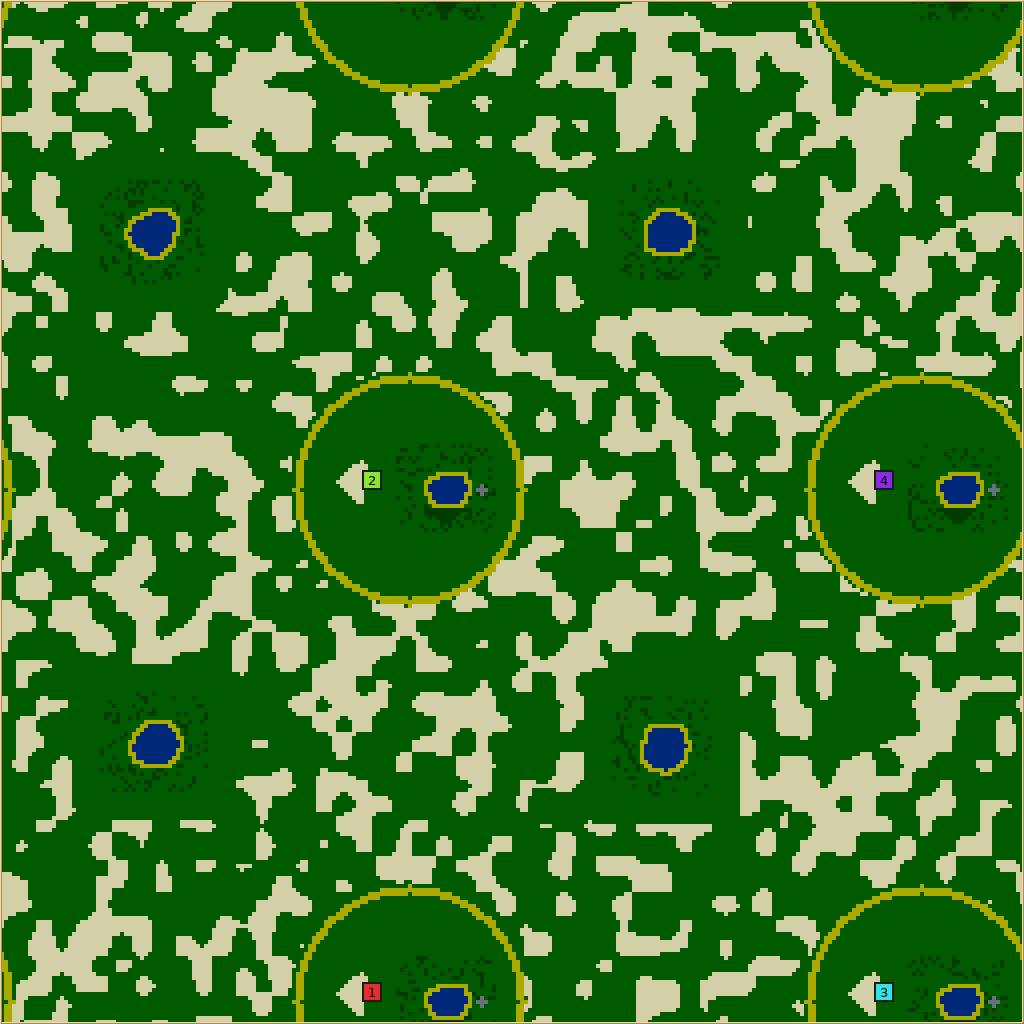
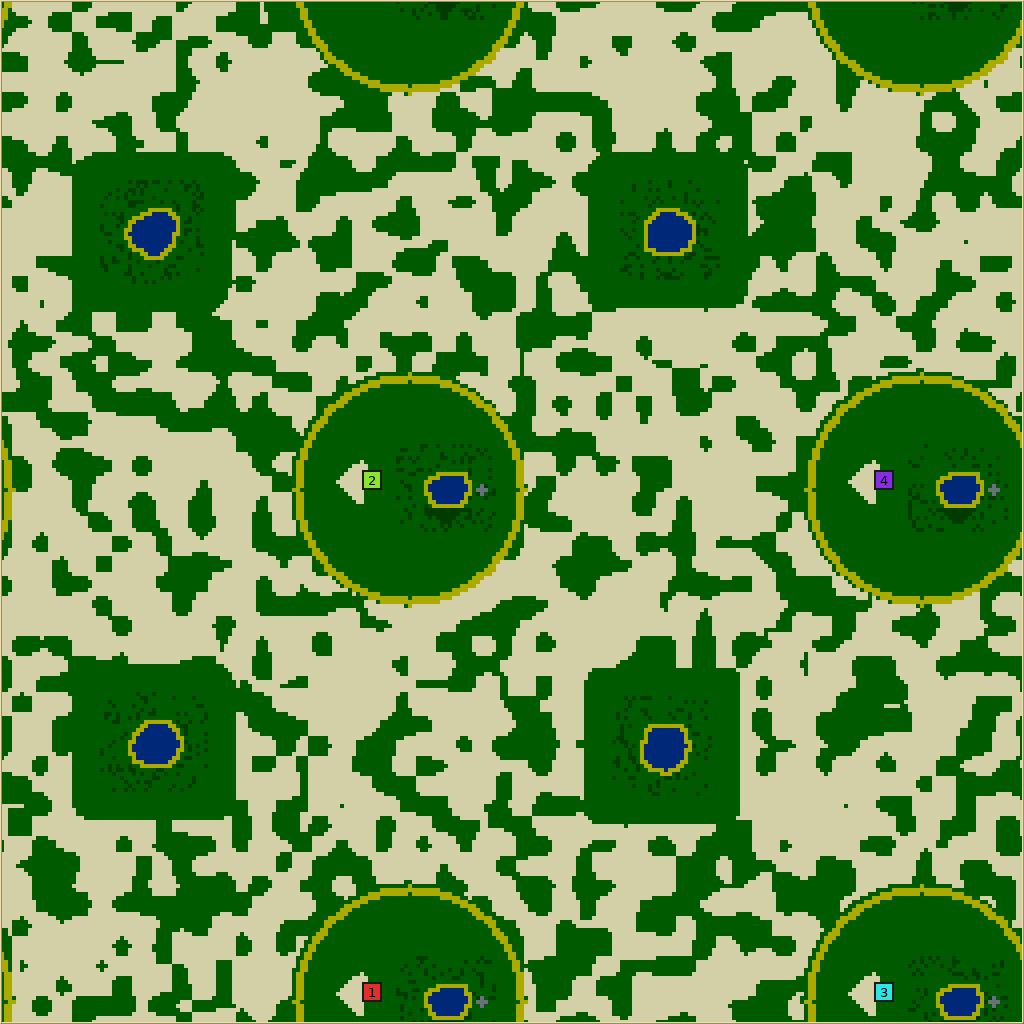
Vultures: revision 3 preview and numbers in the docs
Claude-Session: https://claude.ai/code/session_01CuBTRUddtVPkUWAdhHsFto

Changed region(s): [[0.0, 0.0, 1.0, 1.0], [0.7812, 0.0312, 0.8125, 0.0625]]

diff --git a/docs/artifacts/vultures/README.md b/docs/artifacts/vultures/README.md
@@ -10,9 +10,10 @@ The archives, logs and raw records linked from these notes live on the `evidence
 [Final bulk generation and tuning](BULK.md) ·
 [All 33 locale translations](https://github.com/Globulation2/glob2/blob/evidence/vultures/docs/artifacts/vultures/translations-check.json)
 
-This original package exercised generator **33**, revision **1**, using the optimized
-macOS ARM64 client. The final revision **2** adds the opt-in crowded-lattice fallback;
-its already playable macOS golden fingerprints are unchanged. The final 461-job Linux
+This original package exercised the generator at legacy id 33, revision **1**, using the optimized
+macOS ARM64 client. Revision **2** added the opt-in crowded-lattice fallback with the macOS golden
+fingerprints unchanged; revision **3** (legacy id **47**) fills the fields in, 65% cover instead of
+35%, on maintainer review, and the 256×256 preview above is regenerated at that revision. The final 461-job Linux
 bulk results and revision-2 source identity are in [BULK.md](BULK.md).
 [Build/source identity](https://github.com/Globulation2/glob2/blob/evidence/vultures/docs/artifacts/vultures/build-manifest.json) and [reproduction commands](https://github.com/Globulation2/glob2/blob/evidence/vultures/docs/artifacts/vultures/reproduce.sh) identify
 what was exercised. No simulation, AI, save-format, replay or network-version code was changed.

diff --git a/docs/map-generators/VULTURES.md b/docs/map-generators/VULTURES.md
@@ -43,7 +43,7 @@ streams and traversal order for already playable requests. Vultures opts into a 
 fallback only when the ordinary clearing geometry cannot fit; Old Growth does not. Vultures
 has its own furnishing and final validation. Common crop
 repairs are deliberately avoided because they could insert renewable wheat; trail and room
-repairs can only remove resources. Numeric ID 33 is additive; save, replay and network formats
+repairs can only remove resources. Numeric ID 47 is additive; save, replay and network formats
 are unchanged. Revision 2 records the geometry fallback; its previously playable golden
 fingerprints are unchanged. Generated maps use the existing full-world serializer.
 
